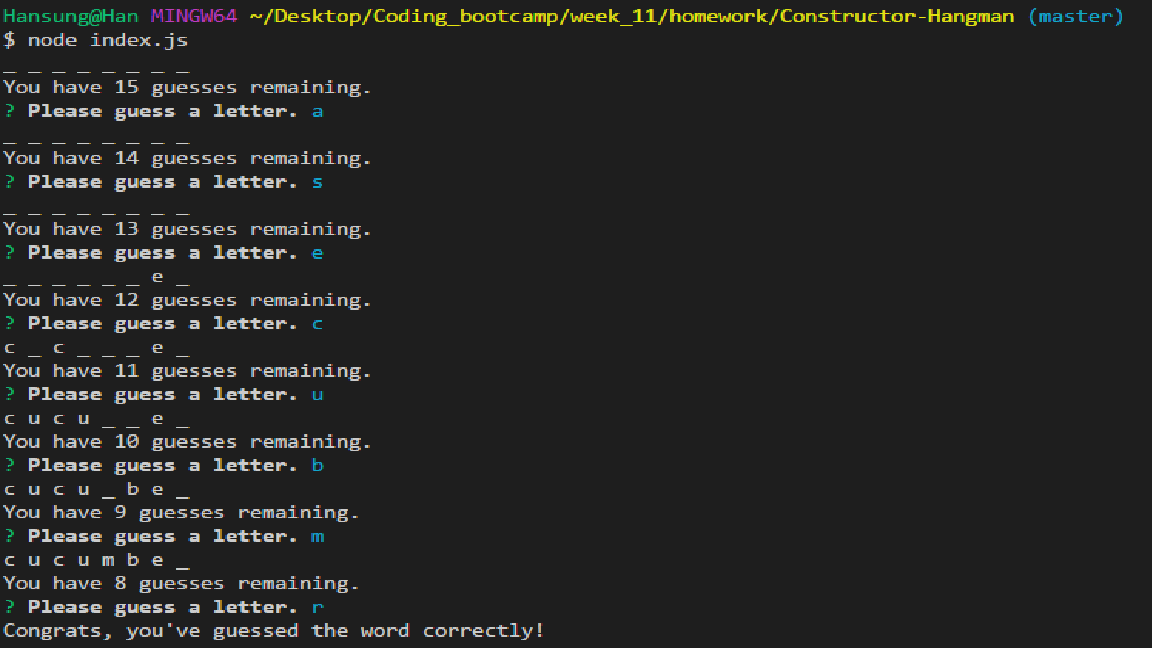
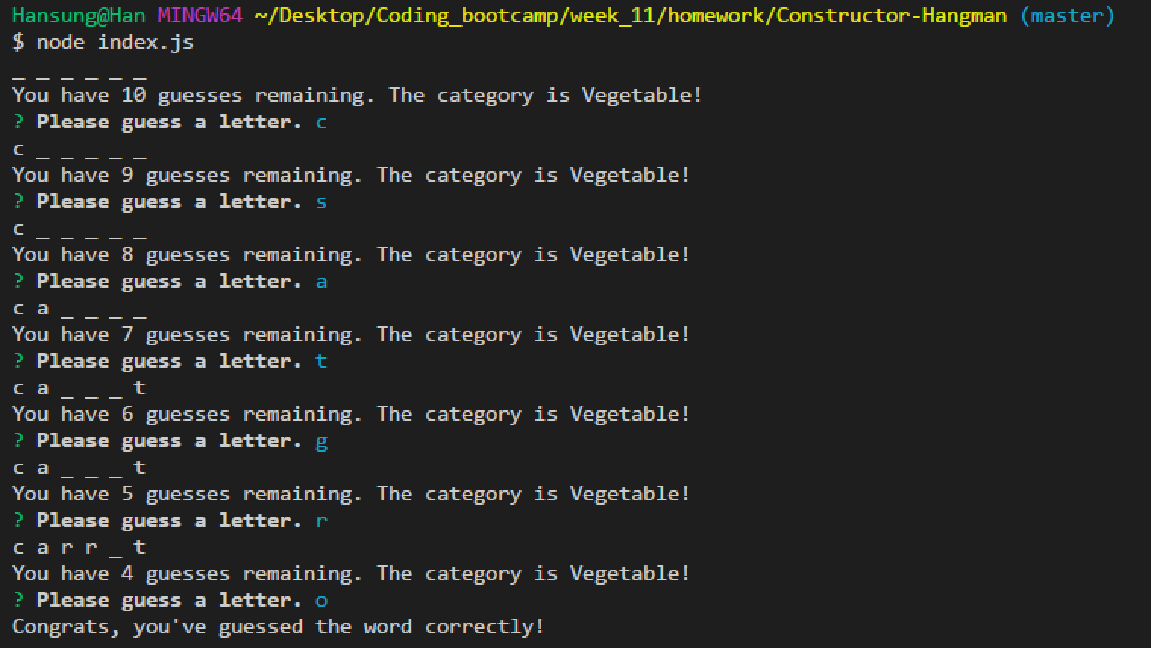
added png file

Changed region(s): [[0.0, 0.1235, 0.625, 0.9877], [0.0, 0.0, 0.9688, 0.0926]]

diff --git a/index.js b/index.js
@@ -3,7 +3,7 @@ var Word = require("./word");
 var Letter = require("./letter");
 var letterGuessedArray = [];
 var previouslyGuessed = [];
-var numberGuesses = 15;
+var numberGuesses = 10;
 
 var wordBank = ["carrot", "spinach", "lettuce", "pepper", "cucumber", "potato", "pea"];
 var randomIndex = Math.floor(Math.random() * wordBank.length);
@@ -18,8 +18,7 @@ var currentWord = new Word(letterGuessedArray);
 var queryUser = function() {
 	if (numberGuesses > 0) {
 		var wordDisplay = currentWord.show();
-
-		console.log("You have " + numberGuesses + " guesses remaining.");
+		console.log("You have " + numberGuesses + " guesses remaining. " + "The category is Vegetable!");
 		Inquirer.prompt([
 				{
 					name: "letter",
